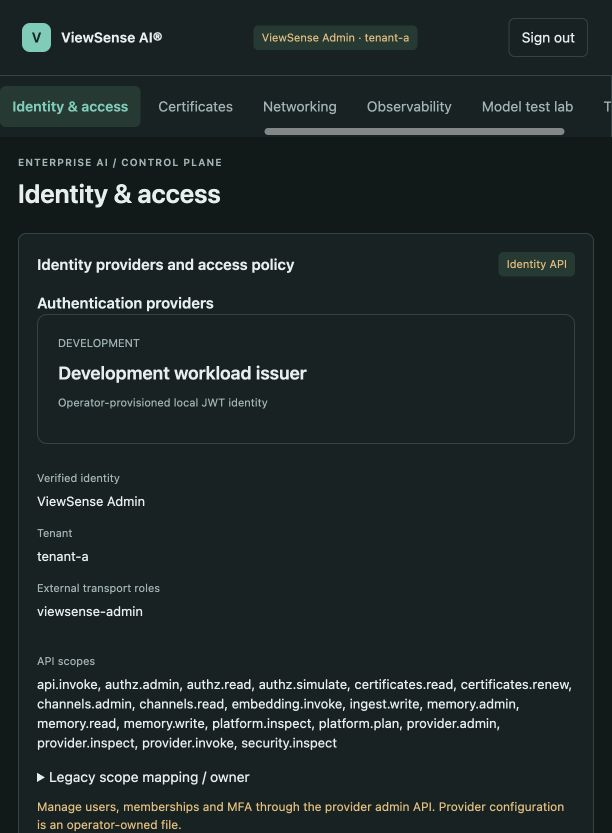
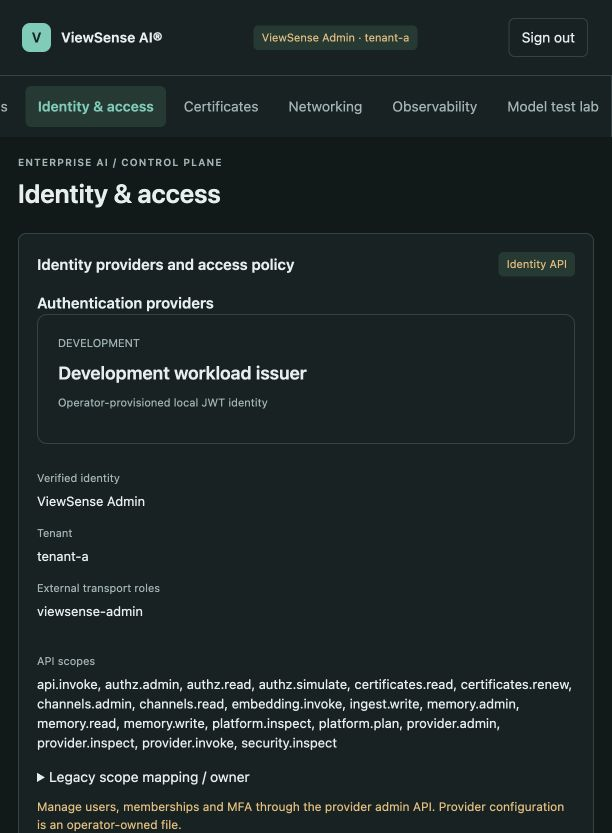
Updated v1

Changed region(s): [[0.0, 0.0936, 0.9935, 0.1873]]

diff --git a/docs/fabric/governance/channel-console.md b/docs/fabric/governance/channel-console.md
@@ -11,8 +11,8 @@ This release implements the control plane. Business tool/CRM execution remains d
 |---|---|---|
 | ViewSense Admin | Overview & suites, AI & models, Networking, Observability, Certificates, Identity & access, Input Channels, Output Channels, Model test lab, Test history | Existing administration scopes; independent review remains separately provisioned |
 | Operations | Overview & suites, Certificates, Identity & access, Input Channels, Output Channels | Read only; no renewal, deployment-plan generation, model tests or policy mutations |
-| Sales | Input Channels, Output Channels | Read only |
-| SIEM | Input Channels, Output Channels | Read only |
+| Sales | Input Channels playground, Output Channels AI destinations | General chat through policy; no channel configuration access |
+| SIEM | Input Channels playground, Output Channels AI destinations | General chat through policy; no channel configuration access |
 
 Choose a POC identity at sign-in and supply its matching launch credential. The identity selector
 does not grant a role: the server authenticates the selected credential against operator-owned
@@ -31,8 +31,10 @@ For startup, per-role credential commands, sign-in steps and login troubleshooti
 `GET /api/console-roles` shows the role matrix inside Identity & access for Operations and Admin.
 Navigation, overview links and initial background requests obey that matrix. Forbidden page URLs
 fall back to Overview for Operations or Input Channels for Sales/SIEM. Direct requests to a
-forbidden console API or any non-admin mutation return 403 before downstream dispatch. Read-only
-channel pages hide mutation and synthetic-preview controls and disable resource fields.
+forbidden console API or non-admin configuration mutation return 403 before downstream dispatch.
+Operations channel pages hide mutation and synthetic-preview controls and disable resource fields.
+Sales/SIEM use a separate playground and cannot read administrative channel catalogs; scoped
+playground policy-check/chat POSTs are permitted.
 
 For enterprise SSO, configure the AuthN adapter's approved `role_scopes` mapping to emit
 `console.role.viewsense-admin`, `console.role.operations`, `console.role.sales` or
@@ -47,7 +49,7 @@ Console roles govern platform workspace admission. They do not create CRM entitl
 role mappings, Input entry bindings or Output grants. Sales/CRM execution still requires its own
 complete business grant, and remains disabled in this pilot. The role registry is shipped code
 plus operator configuration; dynamic console role editing and enterprise account provisioning are
-not implemented. The SIEM profile here is a Channel viewer, not a telemetry-export credential.
+not implemented. The SIEM profile here has the user playground, not a telemetry-export credential.
 
 ### Role acceptance
 
@@ -64,7 +66,7 @@ Read-only live acceptance against the provisioned local harness:
 
 This checks all four profiles, direct read/write denial, credential promotion rejection and absence
 of launch/workload credentials in service logs. It stores metadata-only evidence in private local
-state and signs out its test sessions. The latest coordinated revision passed all **203** repository
+state and signs out its test sessions. The original console-role revision passed all **203** repository
 tests. GUI checks verified all four identities, Sales forbidden-URL fallback, disabled resource
 fields, Operations identity/catalog/certificate access and Admin navigation. Local screenshots:
 
@@ -242,3 +244,60 @@ direct-tool enforcement, authoritative role refresh, external AuthZ equivalence,
 inspection/final-wire checks, hard budgets and independent immutable execution evidence remain
 acceptance gates. Existing legacy inference paths do not acquire these guarantees from a catalog.
 Explicit `channel_context` requests to the edge fail safely until execution is enabled.
+
+## End-user playground
+
+Sales and SIEM sign in normally, then open **Input Channels**. Select **ViewSense chat** and the
+approved **Internal AI** destination, enter a message and choose **Send to Internal AI**. **Check
+policy** evaluates the request without generation. **Clear conversation** removes the message and
+response from the current browser panel; navigation/sign-out also clears that transient panel.
+**Output Channels** shows approved AI services and an **Open playground** action. Users never edit
+provider endpoints, credentials, role bindings, routes or capability grants here. Admin/Operations
+continue to manage/inspect channels, with separate scopes and APIs.
+
+This slice supports bounded single-turn text chat. Teams, attachments, conversation history and
+actual CRM queries remain unavailable. Only general chat is granted; the Sales/CRM example still
+needs separately authorised data/tool capabilities. External destinations are blocked by the policy
+engine, with an explicit Internal AI alternative; there is no silent fallback.
+
+The local launcher creates private `.viewsense/local-ai/playground-policy.json` if absent and
+preserves it on restart. It contains `tenants`, canonical `roles`, `internal_model`,
+`internal_adapter_url`, `inspector_model` and `inspect_with_ai`. The default Internal AI chat model
+is the installed `qwen3.8:27b-mlx`; `VS_PLAYGROUND_INTERNAL_MODEL` can choose the initial model when
+provisioning a new policy. Edit the operator policy file and restart the harness to change an
+existing deployment, keeping the adapter's approved model in sync. No weights are downloaded and
+the existing model-test defaults are not changed. TEV and EmbeddingGemma alone cannot generate chat.
+
+Internal AI sensitivity assessment is optional and off by default for this local-only route. When
+`inspect_with_ai` is true, the engine calls the internal decision model and requires a valid response
+from `inspector_model`; an outage/model mismatch blocks generation. The assessment never grants
+permission or enables external processing. Recognised credential patterns block any destination.
+Decision evidence stores safe metadata in governance `evidence_events`, excluding prompts, replies,
+matched sensitive values and execution payload digests. Failed durable storage blocks generation.
+
+Existing enterprise AuthN provider mappings need the explicit `playground.use` scope and approved
+canonical role marker. Regenerating the optional provider fixture does not silently update an
+existing enterprise realm. The [playground design](../../design/high-level/10-overall/10-user-playground-policy-engine.md)
+records deployment, future external activation and production limits.
+
+### Playground acceptance
+
+The coordinated playground revision passed **224** unit tests, including endpoint/payload binding,
+role/tenant/presenter rejection, storage and inspector failure, denied external destinations and
+browser authority/CSRF denial. Live acceptance checks all four role profiles and verifies that
+blocked requests produce zero generation calls and that synthetic payloads stay out of service logs.
+Optional TEV sensitivity assessment and actual Qwen internal generation were exercised locally.
+Run from the implementation checkout against the running harness:
+
+```bash
+.venv-console/bin/python scripts/test-console-roles.py
+.venv-console/bin/python scripts/test-playground.py
+```
+
+The playground script temporarily enables optional internal assessment and restores its original
+operator policy in a `finally` block. It uses synthetic data, performs no external AI calls and
+writes metadata-only evidence to private `.viewsense/local-ai/playground-acceptance.json`.
+
+![Sales end-user playground](../../assets/screenshots/channel-console/user-playground-gui.png)
+
+[Approved AI destinations](../../assets/screenshots/channel-console/user-ai-destinations-gui.png).

diff --git a/docs/design/high-level/10-overall/10-user-playground-policy-engine.md b/docs/design/high-level/10-overall/10-user-playground-policy-engine.md
@@ -1,0 +1,101 @@
+# ViewSense AI® User Playground and Internal Policy Engine
+
+## Scope and ownership
+
+This is a major runtime and user-experience uplift. End users use Input Channels as a chat
+playground and Output Channels as an approved AI destination list. Admin and Operations retain
+channel policy management/inspection. Console admission and the new `playground.use` capability
+allow bounded general chat only; they do not grant CRM queries, memory retrieval or business tools.
+An AI Output destination and a CRM Output capability are separate resources. A future composed
+Sales workflow must independently authorise its CRM facts and its AI processing destination.
+
+The first source is ViewSense chat. Teams and other entry/reply integrations remain a subsequent
+adapter slice with verified membership, recipient binding and enterprise processing-boundary review.
+Users select approved options; provider credentials, URLs, models, policy and role mappings remain
+operator-owned. No connection is represented as live merely because its option is present.
+
+## Executable request path
+
+```mermaid
+flowchart LR
+    User["ViewSense chat"] --> Console["Session + CSRF + playground.use"]
+    Console --> Edge["Verified identity / tenant"]
+    Edge --> Gov["Governance policy engine"]
+    Gov -. optional .-> Inspect["Approved Internal AI assessment"]
+    Inspect --> Gov
+    Gov --> Journal["Safe durable decision metadata"]
+    Gov --> Decision{"Policy decision"}
+    Decision -->|deny| Stop["Reason + explicit Internal AI choice"]
+    Decision -->|internal allow| Local["Approved Internal AI generation"]
+    Stop -. future admission .-> External["External adapter final wire inspection"]
+```
+
+Governance owns an operator-provisioned, tenant-bound playground policy file and safe decisions in
+its PostgreSQL database. The edge owns orchestration and generation. The internal provider adapter
+owns model invocation and its approved endpoint. No service reads another component's database. The internal adapter URL must match the separately
+configured `VS_OLLAMA_ADAPTER_URL` service endpoint in both governance and edge; a policy file
+cannot reclassify an arbitrary endpoint as Internal AI.
+The policy is disabled unless explicitly configured; absent/invalid configuration denies.
+
+Contracts include source/destination IDs, bounded plain-text prompt, assembled messages, decision
+ID/version, allow/block reasons and internal fallback ID. Browsers cannot supply tenant, model,
+provider URL, classification or permission. Requests are single-turn, non-streaming, text only;
+attachments, history, tools and additional context are refused in this slice rather than omitted
+from inspection. The bounded user prompt is inspected; the fixed system instruction is server-owned and contains
+no user or business data. The edge verifies the assembled message digest before dispatch.
+
+## Policy semantics
+
+Deterministic normalised-text checks raise classification for contact data, financial/government
+identifiers, confidentiality markers and credentials. Recognised credential patterns block both destinations. Internal
+AI runs a bounded probabilistic sensitivity assessment inside an operator-approved processing
+boundary. When AI assessment is enabled, missing, malformed, wrong-model or timed-out inspection
+denies dispatch. An AI assessment
+can raise risk; it cannot grant permission or lower the deterministic/source classification floor.
+
+External destinations always deny in this runtime, regardless of detector results. Internal AI
+assessment is optional for the local-only route and defaults off, avoiding a classifier call on
+every chat. Enabling it supplies sensitivity metadata; it never changes permission or permits an
+external transfer. No prompt is silently redirected or retried after blocking.
+
+External AI remains a future supported route. Before activation it must have mandatory local
+inspection, governed minimisation or denial, provider admission and final-wire inspection in its
+credential-owning adapter. No allow switch exists in this playground policy. A future narrow
+public-task template is safer than treating arbitrary free text as anonymous; any external permit
+must bind the actual wire payload, model/endpoint revision and expiry. Existing legacy inference
+routes are separate and do not acquire these playground guarantees.
+
+## Trust boundaries and deployment
+
+All internal hops require mTLS, audience tokens and narrow scopes. The new flows are governance to
+identity/internal inspector and gateway to Internal AI generation; future external adapters will require
+a separate reviewed governance/egress flow. Sales/SIEM workload clients gain only edge `playground.use`, with no
+provider or channel administration grant. Admin/Operations additionally retain management scopes.
+Approved SSO mappings must include `playground.use`; browser fields and header spoofing cannot add it.
+
+Operator configuration records approved tenants, internal model, inspector model and optional assessment mode. This pilot uses local development PKI and a loopback Internal AI runtime. An
+internal label is an operator assertion, not evidence of residency or organisational control.
+Kubernetes defaults remain disabled until operators configure the policy and an approved Internal
+AI provider. Public egress belongs only to the credential-owning external adapter.
+
+## Failure, evidence and operations
+
+Input is bounded, provider calls have deadlines and streaming/fallback are disabled. Responses are
+untrusted plain text rendered with text nodes. Browser conversation state is transient and clears
+on navigation/sign-out; neither prompts nor generated text are written to the decision journal.
+Safe evidence records tenant, pseudonymous subject, decision ID, policy/configuration fingerprint and model, categories,
+allow/block reasons and operation under request correlation. No matched values or payload digests
+appear in public metadata. This is durable local evidence, not independently immutable audit.
+
+Acceptance covers end-user versus admin screens, direct API denial, invented source/destination,
+extra payload fields, confidential/PII/secret canaries, Unicode obfuscation, inspector/DB outage,
+wrong model, model-assisted false negatives and zero generation calls for external/unknown
+destinations. External final-wire and receiver-observed containment tests remain future activation
+gates; no live cloud inference is required. Internal generation and inspection use the running
+approved local models for GUI acceptance.
+
+Production still requires evaluated multilingual/indirect-identifier detection, authoritative
+membership refresh, rate/concurrency and spend budgets, durable policy promotion/revocation,
+immutable export, output/delivery enforcement, per-workload renewable identity and network evidence
+for every selected provider. This slice does not provide a platform-wide guarantee across existing
+embeddings, memory, tools, telemetry or arbitrary external adapters.

diff --git a/docs/design/high-level/00-implementation-conformance.md b/docs/design/high-level/00-implementation-conformance.md
@@ -18,9 +18,11 @@ The console implements separate server-bound **ViewSense Admin**, **Operations**
 **SIEM** identities. `GET /api/console-roles` exposes the canonical workspace matrix to Admin and
 Operations. `GET /api/session` adds canonical roles, narrowed scopes and permitted `workspaces`.
 Only Admin sees all workspaces, model tests and test history. Operations sees Overview & suites,
-Certificates, Identity & access and both Channel pages. Sales and SIEM see only the Channel pages.
-Non-admin profiles are read-only. Hidden navigation, overview links, startup calls and direct
-console mutations obey the same policy; denied API calls return 403 before any downstream call.
+Certificates, Identity & access and both Channel pages. Sales and SIEM see the separate Channel
+playground and approved Internal AI destination list. Non-admin configuration access is read-only;
+Sales/SIEM cannot read management catalogs. Scoped playground policy checks and chat are permitted.
+Hidden navigation, overview links, startup calls and direct configuration mutations obey the same
+policy; denied API calls return 403 before any downstream call.
 
 Local credentials bind to distinct least-privilege workload clients. Selecting another identity,
 forging a role field/header or changing a URL cannot promote the credential. Named POC identities
@@ -28,7 +30,8 @@ also encounter the workspace ceiling at the edge. For SSO, operator-approved ext
 produce `console.role.<canonical-role>` scopes; unknown external roles provide no console access.
 Legacy headless clients retain their existing scope contracts. Business framework grants remain a
 separate governance policy and are never implied by a console profile. No new state owner, service
-or network edge is introduced. Evidence for the role matrix is recorded in the operator guide.
+or network edge was introduced by the original role revision. The later playground revision below
+adds explicit internal policy/generation paths. Evidence is recorded in the operator guide.
 The coordinated role revision passed all **203** tests. Live API acceptance and browser checks
 verified every profile, credential/role spoof rejection, read-only denials, hidden links and
 forbidden URL fallback. Lint, JavaScript syntax, Kustomize and strict docs checks passed; Kubernetes
@@ -750,3 +753,11 @@ Business navigation, and horizontal scrolling at a narrow viewport without page 
 Application unit tests passed (89), lint passed, and base Kustomize rendering passed.
 There are no changes to application APIs, trust boundaries, data owners, runtime configuration,
 deployment topology, or SLOs. Existing production acceptance gaps remain as recorded above.
+
+## User playground and policy engine (major)
+
+The [playground slice](10-overall/10-user-playground-policy-engine.md) implements end-user source/destination selection, single-turn Internal AI generation and deny-by-default external/unknown destinations. The governance policy file binds tenant, console role and approved model; decision metadata is durably recorded before generation. Credentials block both routes; optional internal TEV assessment fails closed when enabled. Sales/SIEM lose direct management-catalog access and gain only edge `playground.use`. Canonical schemas, negative API tests and local GUI acceptance cover this slice. Teams, actual CRM execution, external adapter final-wire enforcement, budgets and immutable execution audit remain planned. Existing OpenAI/legacy inference routes do not inherit playground guarantees.
+
+Playground routes: `GET /api/playground/options`, `POST /api/playground/policy-check`, `POST /api/playground/chat`, edge equivalents `/v1/playground/options`, `/v1/playground/policy-check`, `/v1/playground/chat`, governance `POST /v1/playground/options:resolve` and internal provider `POST /v1/playground/generate`.
+
+The playground revision passed **224** unit tests, JavaScript syntax, lint, strict documentation build and Helm/Kustomize rendering. Live local role/policy acceptance and real Internal AI generation/optional TEV assessment passed. Kubernetes baseline smoke and Cilium network probes are separate evidence; an in-cluster Internal AI runtime and playground policy still require operator provisioning. Baseline source references for the owner’s manual paired handoff: implementation `bc5626f`, documentation `bcf0a12`.

diff --git a/docs/design/high-level/40-ops/01-day2-operations-sre.md b/docs/design/high-level/40-ops/01-day2-operations-sre.md
@@ -23,7 +23,7 @@ Prompt, completion, memory, and tool bodies remain excluded from baseline logs.
 
 The local console provisions separate Admin, Operations, Sales and SIEM credentials. Operations
 has read-only Overview/Certificates/Identity/Channels access; certificate renewal and policy
-publication require an appropriately scoped Admin identity. Sales/SIEM only inspect Channels.
+publication require an appropriately scoped Admin identity. Sales/SIEM use the Channel playground and approved AI destination list; they cannot inspect administrative catalogs.
 Credential files and their role/client bindings stay in private local state; restart after an
 operator configuration change to invalidate browser sessions. Back up governance data independently
 of these development credentials. Console role visibility supplies no CRM execution grant.
@@ -52,7 +52,7 @@ credential for the intended POC identity:
 2. Select the matching **POC identity** on the sign-in page.
 3. Paste the command output into **Launch credential**, then sign in.
 4. Confirm the role shown in the header and the permitted navigation links. Operations has five
-   workspaces; Sales and SIEM have only Input Channels and Output Channels. ViewSense Admin has
+   workspaces; Sales and SIEM have only Input Channels (playground) and Output Channels (AI destinations). ViewSense Admin has
    all workspaces.
 
 A credential for one identity cannot sign in as another. A missing credential file usually means
@@ -315,3 +315,18 @@ production retention and recovery automation remain promotion work. Include this
 governance database backup and restore the catalog, active snapshot, candidates and disabled set
 together. Run the local sample acceptance and verify retained revisions after restart. Decision
 latency/freshness SLOs and authoritative role-refresh outages require later runtime acceptance.
+
+## Playground operation and recovery
+
+The [Channel operating guide](../../../fabric/governance/channel-console.md#end-user-playground)
+contains the user flow, operator-owned model/tenant/role policy, optional Internal AI assessment
+and startup instructions. No external destination can be enabled by the current playground policy.
+Use a generation-capable installed chat model; TEV sensitivity decisions and EmbeddingGemma
+embeddings are separate capabilities. Model/policy changes require a harness restart and new
+acceptance; existing launch/workload credentials and database state are retained.
+
+If policy or evidence storage is unavailable, generation stops. Restore the governance database
+before retrying. If Internal AI is unavailable, restore its approved runtime/model; never introduce
+an automatic external fallback. Back up the operator policy and governance evidence independently
+of credentials. This evidence is not an immutable external audit sink. Decision IDs appear in the
+user panel and JSON request metadata for correlation; payloads remain excluded from service logs.

diff --git a/docs/design/high-level/30-security/01-zero-trust.md b/docs/design/high-level/30-security/01-zero-trust.md
@@ -22,8 +22,9 @@ token subject is a production integration, not current application behavior.
 ## Channel control-plane enforcement
 
 Console workspace admission uses server-bound Admin/Operations/Sales/SIEM profiles. Non-admin
-profiles deny every mutation, model test and admin-only read before downstream dispatch. Separate
-local credentials select separate fixed-tenant workload clients with read-only component grants.
+profiles deny configuration mutations, model tests and admin-only reads before downstream dispatch;
+scoped playground POSTs are explicitly permitted. Separate
+local credentials select separate fixed-tenant workload clients with profile-specific component grants.
 The browser receives no credential or authority from selecting an identity or changing a page URL.
 For SSO, only operator-approved mappings yield canonical `console.role.*` scopes; arbitrary role
 claims fail closed for the console. The edge applies workspace ceilings to these scopes and named
@@ -317,3 +318,7 @@ identity/delegation and renewable workload credentials remain separate work.
 The release response preview uses the smoke client's existing gateway audience and `api.invoke`
 scope. The browser cannot substitute a model, tenant, upstream or persistence flag; the console
 sets `remember: false` and preserves the existing downstream trust envelope. No grant is added.
+
+## Playground execution boundary
+
+Sales/SIEM now use the end-user playground and cannot read administrative channel catalogs. Only `playground.use` admits chat through the edge. Governance accepts role context only from the verified edge presenter and checks its operator-owned tenant/role/model policy. It durably records safe decision metadata before generation; policy/evidence outage denies. External/unknown destinations always deny. The internal generation adapter requires a gateway token, `playground.generate`, an exact approved model and the fixed message layout. Optional Internal AI assessment never grants permission. No business tool or CRM entitlement is implied. See the [playground policy design](../10-overall/10-user-playground-policy-engine.md).

diff --git a/docs/design/high-level/20-deployment/01-deployment-topology-sizing.md b/docs/design/high-level/20-deployment/01-deployment-topology-sizing.md
@@ -249,3 +249,22 @@ Startup creates the additive table idempotently; old services ignore it on rollb
 governance database before upgrade, retain snapshots/disabled entries during rollback and restore
 them as one consistent state. Do not roll back to a consumer that ignores channel decisions to
 continue business execution. Full channel execution remains disabled in this slice.
+
+## Local-only playground deployment
+
+The edge-to-governance policy path requires `policy.evaluate`; governance is the sole decision
+journal owner. New allow-listed flows permit governance to identity/Internal AI inspection and
+edge to the approved Internal AI generation adapter. The local harness provisions private policy
+and distinct scoped clients. Kubernetes defaults keep playground execution disabled without policy.
+
+For Helm, enable `playground.enabled`, set `playground.policySecret` to an operator-provisioned
+Secret containing `policy.json`, and set `playground.internalModel`. Enable the Ollama adapter with
+an enterprise-approved internal runtime. Provision a `governance` workload credential with only
+`ollama-adapter/provider.invoke` for optional inspection, and extend gateway grants with
+`governance/policy.evaluate` and `ollama-adapter/playground.generate`. Human or fixed-tenant clients
+need edge `playground.use` and a canonical approved console role. The policy model and adapter
+model must agree. The source-checkout console attaches independently; it owns no database.
+
+No external egress route is introduced by the playground. Future external AI needs adapter-level
+final-wire inspection and receiver-observed containment tests before activation. See the
+[playground design](../10-overall/10-user-playground-policy-engine.md).

diff --git a/docs/design/high-level/60-enterprise/01-enterprise-integration-controls.md b/docs/design/high-level/60-enterprise/01-enterprise-integration-controls.md
@@ -244,3 +244,7 @@ assertions are the only accepted input for own-access/decision APIs. AuthN v2 su
 verified-token snapshots, with no authoritative directory refresh yet. The built-in AuthZ contract
 is tested; external AuthZ equivalence remains a promotion gate. No connector/Oracle/Teams or
 external-model PII guarantee follows from this control-plane evidence.
+
+## End-user playground boundary
+
+The local playground separates end-user chat/AI destinations from administrative channel policy. Its local-only engine verifies tenant, approved console role/model and durable decision evidence; it blocks external/unknown destinations and credential payloads. Internal AI sensitivity assessment is optional for this local-only slice. External AI remains a future supported capability whose adapter-level inspection, enterprise-boundary review and receiver-observed containment gates must pass before activation. This does not satisfy the full company-boundary/PII matrix row across legacy model, embedding, tool or telemetry paths.

diff --git a/docs/design/high-level/design_01.md b/docs/design/high-level/design_01.md
@@ -295,3 +295,7 @@ a cluster service or expand workload grants. See the [release preview guide](../
 Release preview inference uses the existing gateway response API and smoke `api.invoke` grant,
 then the established orchestrator/LLM/mock path. Conversation writes are disabled for that test.
 Tev1/Ollama capability absence is separate from live LLM gateway health.
+
+## User playground and local-only policy
+
+The [user playground design](10-overall/10-user-playground-policy-engine.md) adds a separate Sales/SIEM experience: ViewSense chat source, approved Internal AI destination, bounded single-turn generation and mandatory governance decisions. Channel management stays with Admin/Operations. General chat grants do not authorise CRM/memory/tools. External AI remains a future route and is always denied by this playground; existing legacy inference paths are separate.

diff --git a/docs/fabric/identity/README.md b/docs/fabric/identity/README.md
@@ -41,3 +41,5 @@ governance retains role/channel catalog ownership. Product credentials and claim
 translations stay in adapters. Keycloak is an AuthN example only; another conforming provider needs
 no console/CRM changes after reviewed trust, subject linkage and mapping migration. Both identity
 and policy providers must pass the [neutral contract and replacement gates](../../design/high-level/10-overall/08-channel-consoles-role-mapping.md#provider-neutral-authentication-and-authorisation).
+
+Sales/SIEM now use the end-user Channel playground instead of administrative catalogs. Canonical profiles grant only edge `playground.use`; configuration reads remain Admin/Operations. Enterprise mappings must explicitly grant that scope alongside their console role marker. See the [playground guide](../governance/channel-console.md#end-user-playground).

diff --git a/docs/design/high-level/10-overall/09-enterprise-ai-governance-egress.md b/docs/design/high-level/10-overall/09-enterprise-ai-governance-egress.md
@@ -226,3 +226,7 @@ explicitly synthetic and create no execution authority. Runtime PII inspection, 
 wire enforcement, hard-cost reservations, actual connector restrictions and complete immutable
 execution evidence remain planned as described above. Existing legacy inference routes do not
 acquire these guarantees from the new catalog.
+
+## Local-only user playground
+
+The [playground policy engine](10-user-playground-policy-engine.md) implements a bounded local-only chat path and durable pre-generation policy evidence. External destinations deny unconditionally in this slice. Internal AI assessment is optional for local traffic. External processing remains a future supported route requiring the inspection/adapter/network gates above; neither a model score nor the playground policy can enable it.

diff --git a/docs/design/high-level/README.md b/docs/design/high-level/README.md
@@ -63,3 +63,5 @@ and operations documents above.
 The Input/Output console control-plane pilot now ships reviewed governance catalogs and
 non-executing policy/Sales previews. See the [channel console guide](../../fabric/governance/channel-console.md)
 and current conformance section before interpreting the broader execution target designs.
+
+- [User playground and Internal AI policy engine](10-overall/10-user-playground-policy-engine.md) — end-user chat, approved AI destinations and the local-only runtime boundary.
